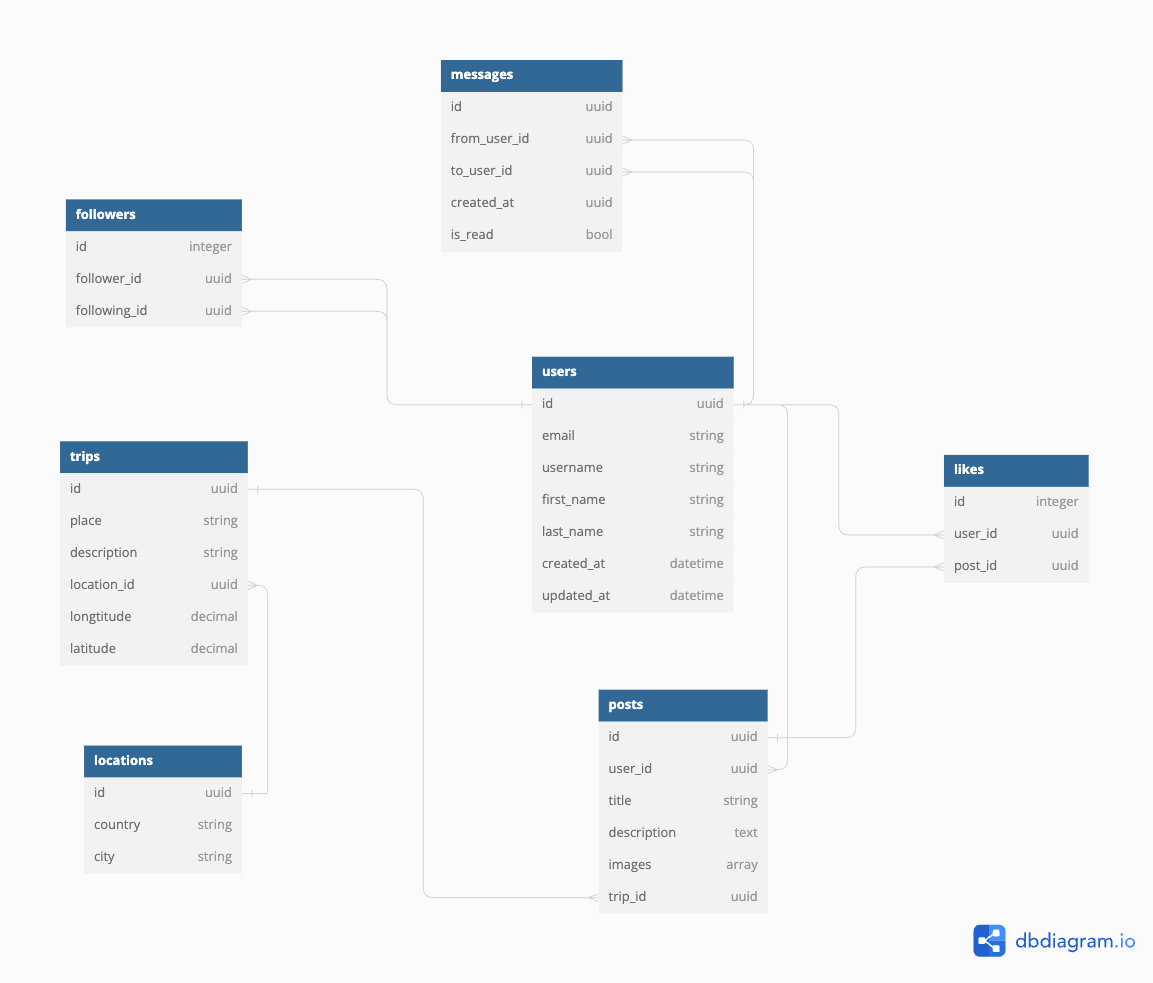
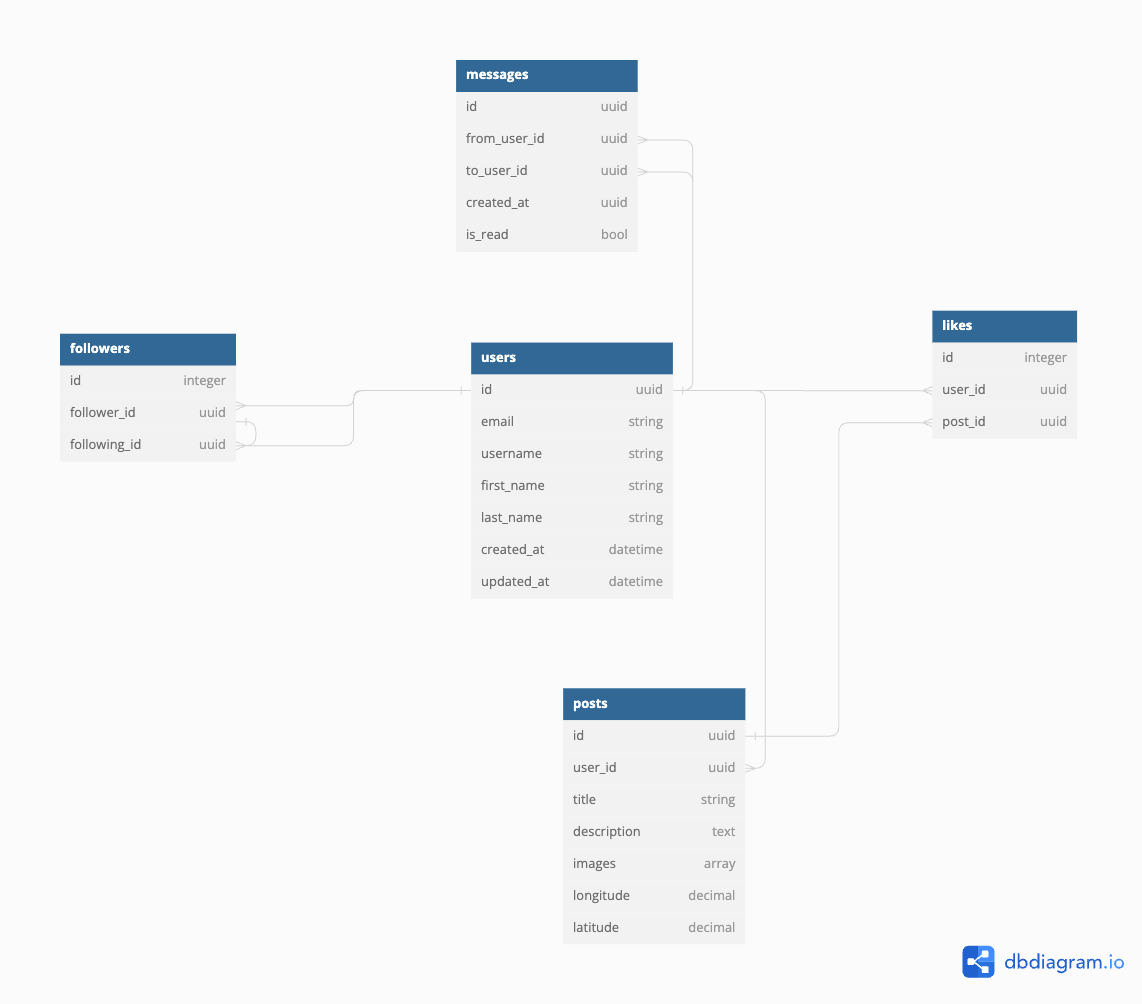
fix by comments

diff --git a/README.md b/README.md
@@ -22,6 +22,10 @@
 - one user views 15 posts in day
 - 2000 symbols for post
 - 5 photos for post
+- Timings:
+    - create post - 1s
+    - get posts - 2 s
+    - subscribe - 0.5 s
 
 ## Basic calculations
 
@@ -60,13 +64,4 @@ Traffic (create comment):
 Required memory:
     115 * 86400 * 365 = 4GB
 
-Will use 5 hdd x2TB for posts storage and 170 ssd x20TB for images storage and 1 hdd x 500gb for comments storage
-
-For all storages will use master-slave replication with replication factor 2
-
-For storing posts will use sharding by user_id
-
-For storing images will use sharding by post_id
-
-For storing comments will use sharding by post_id
-in total we will have 5 hosts with 4TB hdd, 170 hosts with 40TB ssd and 2 host with 500GB hdd
+Will use 20 hdd x1TB for posts storage and 170 ssd x20TB for images storage and 1 hdd x 500gb for comments storage

diff --git a/database/description.md b/database/description.md
@@ -1,0 +1,8 @@
+# Info
+- Posts, comments and messages store in postgresql db
+- Images store in s3
+- For storing posts will use sharding by user_id
+- For storing images will use sharding by post_id
+- For storing comments will use sharding by post_id
+- For all storages will use async master-slave replication with replication factor 2
+- In total for sharding and replication  we will have 20 hosts with 1TB hdd, 170 hosts with 40TB ssd and 2 host with 500GB hdd
